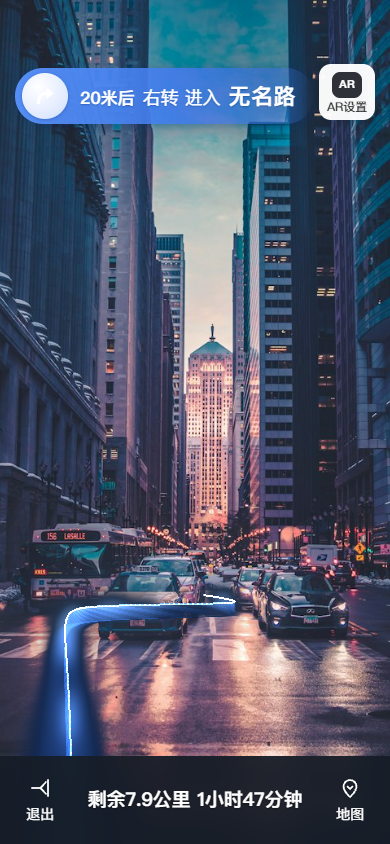
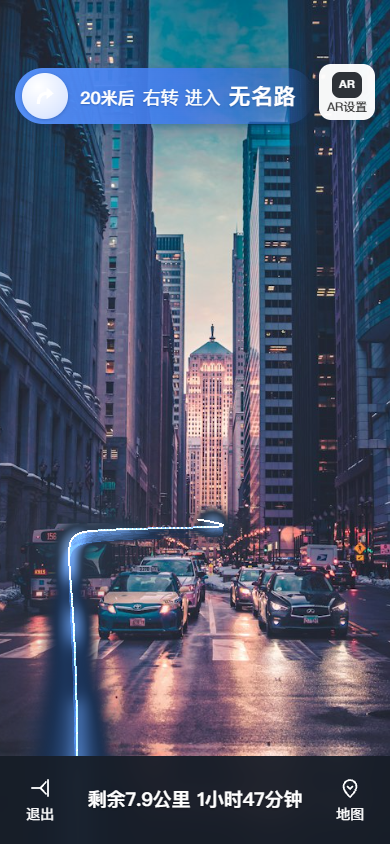
redo4: fix cover-crop branch in horizon math, screen-pixel horizon test at 3 viewports, 30m straight route, lighter near fade, irregular scanlines

Changed region(s): [[0.0923, 0.5853, 0.6462, 0.8934]]

diff --git a/tests/horizon.test.ts b/tests/horizon.test.ts
@@ -1,23 +1,25 @@
 /**
- * REDO3 自动验收：路线所有采样点必须投影在地平线之下，
- * 最远点距地平线 ≤ 3% 屏高（+8px 容差）。
- * 用纯 three.js 数学（无 WebGL）：复现 demo 的相机/校准/路线配置。
+ * REDO4 地平线验收（修正版）：
+ * 把远处地平线点 (0, 0, -10000) 投影到真实屏幕像素（经过 object-fit:cover 裁剪），
+ * 断言其在配置的照片地平线（图像坐标 horizonY 经同一 cover 数学换算）±1.5% 屏高内。
+ * 在 3 个视口下测试：390x844、430x932、1280x800。
  */
 import { describe, it, expect } from 'vitest'
 import * as THREE from 'three'
 import { normalizeRoute, buildRouteGeometry, buildCurtainGeometry } from '../src/route'
 
 // 与 demo/main.ts 保持一致的配置
-const PHOTO = { horizonY: 0.63, vanishX: 0.57, aspect: 828 / 1054 }
-const VIEWPORT = { w: 390, h: 844 }
+const PHOTO = { horizonY: 0.63, vanishX: 0.57, aspect: 828 / 1054 } // 图像坐标
 const FOV = 60
 const EYE = 1.6
 
-/** 复现 core.ts 的 photoToViewportY（object-fit:cover 上下裁剪） */
-function photoToViewportY(photoY: number): number {
-  const viewportAspect = VIEWPORT.w / VIEWPORT.h
-  if (viewportAspect <= PHOTO.aspect) {
-    const visibleFraction = viewportAspect / PHOTO.aspect
+/** 复现 core.ts 的 photoToViewportY（cover 裁剪，修正版） */
+function photoToViewportY(photoY: number, vw: number, vh: number): number {
+  const viewportAspect = vw / vh
+  // viewportAspect < photoAspect：图按高度铺满、左右裁剪 → y 不变
+  // viewportAspect > photoAspect：图按宽度铺满、上下裁剪 → y 映射
+  if (viewportAspect > PHOTO.aspect) {
+    const visibleFraction = PHOTO.aspect / viewportAspect
     const top = (1 - visibleFraction) / 2
     return (photoY - top) / visibleFraction
   }
@@ -25,65 +27,77 @@ function photoToViewportY(photoY: number): number {
 }
 
 /** 复现 core.ts 的 setHorizonCalibration 推导 */
-function calibratedPitchDeg(): number {
-  const visibleHorizonY = photoToViewportY(PHOTO.horizonY)
+function calibratedPitchDeg(vw: number, vh: number): number {
+  const visibleHorizonY = photoToViewportY(PHOTO.horizonY, vw, vh)
   const fovY = THREE.MathUtils.degToRad(FOV)
   const pitch = Math.atan((2 * visibleHorizonY - 1) * Math.tan(fovY / 2))
   return THREE.MathUtils.radToDeg(pitch)
 }
 
-describe('REDO3 路线贴地校验', () => {
-  it('校准后的 pitch 使 3D 地平线落在照片地平线上', () => {
-    const pitchDeg = calibratedPitchDeg()
-    // 3D 地平线：y=eye 的无穷远点。投影后 NDC y = (2*visibleHorizonY - 1)
-    const camera = new THREE.PerspectiveCamera(FOV, VIEWPORT.w / VIEWPORT.h, 0.05, 300)
-    camera.position.set(0, EYE, 1.5)
-    camera.quaternion.setFromEuler(new THREE.Euler(THREE.MathUtils.degToRad(pitchDeg), 0, 0, 'YXZ'))
-    camera.updateMatrixWorld()
-    const far = new THREE.Vector3(0, EYE, -10000).project(camera)
-    const ndcY = 1 - 2 * photoToViewportY(PHOTO.horizonY)
-    expect(far.y).toBeCloseTo(ndcY, 3)
-  })
+const VIEWPORTS: Array<[number, number]> = [
+  [390, 844],
+  [430, 932],
+  [1280, 800],
+]
 
-  it('所有路线采样点都在地平线之下，最远点距地平线 ≤ 3% 屏高', () => {
-    const pitchDeg = calibratedPitchDeg()
-    const camera = new THREE.PerspectiveCamera(FOV, VIEWPORT.w / VIEWPORT.h, 0.05, 300)
-    camera.position.set(0, EYE, 1.5)
-    camera.quaternion.setFromEuler(new THREE.Euler(THREE.MathUtils.degToRad(pitchDeg), 0, 0, 'YXZ'))
-    camera.updateMatrixWorld()
+describe('REDO4 地平线校准（真实屏幕像素）', () => {
+  for (const [vw, vh] of VIEWPORTS) {
+    it(`${vw}x${vh}: 3D 地平线投影落在照片地平线 ±1.5% 屏高内`, () => {
+      const pitchDeg = calibratedPitchDeg(vw, vh)
+      const camera = new THREE.PerspectiveCamera(FOV, vw / vh, 0.05, 300)
+      camera.position.set(0, EYE, 1.5)
+      camera.quaternion.setFromEuler(new THREE.Euler(THREE.MathUtils.degToRad(pitchDeg), 0, 0, 'YXZ'))
+      camera.updateMatrixWorld()
 
-    // demo 的路线（REDO3：28m 直行 + 8m 半径右转 + 20m）
-    const route = [
-      [0, 0],
-      [0, -28],
-      [7, -34],
-      [8.5, -44],
-      [9, -54],
-    ] as Array<[number, number]>
-    const geo = buildRouteGeometry(normalizeRoute(route))
+      // 远处地平线点（地面 y=0 的无穷远）→ 屏幕像素
+      const far = new THREE.Vector3(0, 0, -10000).project(camera)
+      const projectedY = ((1 - far.y) / 2) * vh
 
-    const horizonPx = photoToViewportY(PHOTO.horizonY) * VIEWPORT.h
-    let maxAbove = 0
-    let farGap = Infinity
-    for (const p of geo.points) {
-      const v = p.clone().project(camera)
-      const sy = (1 - (v.y + 1) / 2) * VIEWPORT.h
-      maxAbove = Math.max(maxAbove, horizonPx - sy) // >0 = 在地平线上方
-      farGap = Math.abs(sy - horizonPx)
-    }
-    // 全部在地平线之下（允许 0.5px 数值误差）
-    expect(maxAbove).toBeLessThanOrEqual(0.5)
-    // 最远点接近地平线（≤ 3% 屏高 + 8px 容差）
-    expect(farGap).toBeLessThanOrEqual(VIEWPORT.h * 0.03 + 8)
-  })
+      // 配置的照片地平线（图像坐标）→ 屏幕（同一 cover 数学）
+      const expectedY = photoToViewportY(PHOTO.horizonY, vw, vh) * vh
+
+      const gap = Math.abs(projectedY - expectedY)
+      expect(gap).toBeLessThanOrEqual(vh * 0.015)
+    })
+
+    it(`${vw}x${vh}: 路线所有采样点在地平线之下，最远点距地平线 ≤3% 屏高`, () => {
+      const pitchDeg = calibratedPitchDeg(vw, vh)
+      const camera = new THREE.PerspectiveCamera(FOV, vw / vh, 0.05, 300)
+      camera.position.set(0, EYE, 1.5)
+      camera.quaternion.setFromEuler(new THREE.Euler(THREE.MathUtils.degToRad(pitchDeg), 0, 0, 'YXZ'))
+      camera.updateMatrixWorld()
+
+      // demo 的路线（REDO4：30m 直行 + 8m 半径右转 + 20m）
+      const route = [
+        [0, 0],
+        [0, -30],
+        [7, -37],
+        [8.5, -47],
+        [9, -57],
+      ] as Array<[number, number]>
+      const geo = buildRouteGeometry(normalizeRoute(route))
+
+      const horizonPx = photoToViewportY(PHOTO.horizonY, vw, vh) * vh
+      let maxAbove = 0
+      let farGap = Infinity
+      for (const p of geo.points) {
+        const v = p.clone().project(camera)
+        const sy = ((1 - v.y) / 2) * vh
+        maxAbove = Math.max(maxAbove, horizonPx - sy)
+        farGap = Math.abs(sy - horizonPx)
+      }
+      expect(maxAbove).toBeLessThanOrEqual(0.5)
+      expect(farGap).toBeLessThanOrEqual(vh * 0.03 + 8)
+    })
+  }
 
   it('光幕几何为单一 ribbon：每采样点 2 顶点，全部 y 在 0..height', () => {
-    const route = [[0, 0], [0, -28], [7, -34], [8.5, -44], [9, -54]] as Array<[number, number]>
+    const route = [[0, 0], [0, -30], [7, -37], [8.5, -47], [9, -57]] as Array<[number, number]>
     const geo = buildRouteGeometry(normalizeRoute(route))
     const h = 0.5
     const curtain = buildCurtainGeometry(geo, h)
     const pos = curtain.getAttribute('position') as THREE.BufferAttribute
-    expect(pos.count).toBe(geo.points.length * 2) // 单张 ribbon：底+顶
+    expect(pos.count).toBe(geo.points.length * 2)
     const ys: number[] = []
     for (let i = 0; i < pos.count; i++) ys.push(pos.getY(i))
     expect(Math.min(...ys)).toBeCloseTo(0, 5)

diff --git a/src/shader.ts b/src/shader.ts
@@ -43,19 +43,24 @@ const frag = /* glsl */ `
   varying vec3 vWorldNormal;
   varying float vDist;
 
+  // 基于弧长 u 的确定性伪随机（不规则扫描线用）
+  float hash(float n) { return fract(sin(n * 127.1) * 43758.5453); }
+
   void main() {
     // 距离渐隐（~60m 完全淡出）
     float distFade = 1.0 - smoothstep(18.0, 60.0, vDist);
+    // 近处 2~3m 淡入：避免脚下出现深色斑块
+    float nearFade = smoothstep(0.4, 3.0, vDist);
 
     float a;
     if (uIsGround > 0.5) {
       // 地面光晕：横向羽化（中心亮、两缘透明）+ 纵向沿路渐弱
       float feather = smoothstep(0.0, 0.42, vUv.y) * smoothstep(1.0, 0.58, vUv.y);
-      a = feather * mix(0.5, 0.05, vUv.x) * distFade * uOpacity;
+      a = feather * mix(0.42, 0.05, vUv.x) * distFade * nearFade * uOpacity;
       // 流动光沿前进方向
       float flow = fract(vUv.x - uTime / uFlowSpeed);
       float band = smoothstep(0.0, 0.1, flow) * smoothstep(0.3, 0.12, flow);
-      a += band * feather * 0.25 * distFade * uOpacity;
+      a += band * feather * 0.22 * distFade * nearFade * uOpacity;
       vec3 col = uColor;
       gl_FragColor = vec4(col, clamp(a, 0.0, 1.0));
       if (gl_FragColor.a < 0.004) discard;
@@ -66,8 +71,13 @@ const frag = /* glsl */ `
     float vertGrad = mix(0.15, 0.45, pow(vUv.y, 1.1));
     vertGrad *= smoothstep(0.0, 0.12, vUv.y);
 
-    // 水平扫描线（8~14 条覆盖光帘高度，高对比清晰）
-    float scan = 0.62 + 0.38 * step(0.5, fract(vUv.y * uScanLines - uTime * 0.12));
+    // 不规则扫描线：每条线的位置/亮度由 hash 抖动，缓慢向上漂移
+    float lineIdx = floor(vUv.y * uScanLines);
+    float jitter = (hash(lineIdx) - 0.5) * 0.55;             // 间距抖动
+    float brightJitter = 0.55 + 0.45 * hash(lineIdx + 7.3);  // 亮度抖动
+    float sy = vUv.y * uScanLines + lineIdx * jitter + uTime * 0.06; // 向上慢漂
+    float scan = (0.62 + 0.38 * step(0.5, fract(sy))) * brightJitter;
+    scan = clamp(scan, 0.0, 1.0);
 
     // 菲涅尔边缘光（薄纱转角处微亮）
     vec3 viewDir = normalize(cameraPosition - vWorldPos);
@@ -79,11 +89,11 @@ const frag = /* glsl */ `
     float band = smoothstep(0.0, 0.1, flow) * smoothstep(0.3, 0.12, flow);
     band *= step(0.999, uReveal);
 
-    a = vertGrad * scan * distFade * uOpacity;
-    a += fres * 0.14 * distFade * uOpacity * smoothstep(0.0, 0.15, vUv.y);
-    a += band * 0.28 * distFade * uOpacity;
+    a = vertGrad * scan * distFade * nearFade * uOpacity;
+    a += fres * 0.14 * distFade * nearFade * uOpacity * smoothstep(0.0, 0.15, vUv.y);
+    a += band * 0.28 * distFade * nearFade * uOpacity;
     // 顶沿衔接亮线
-    a += smoothstep(0.93, 1.0, vUv.y) * 0.22 * distFade * uOpacity;
+    a += smoothstep(0.93, 1.0, vUv.y) * 0.22 * distFade * nearFade * uOpacity;
 
     vec3 col = mix(uColor, uTopColor, smoothstep(0.6, 1.0, vUv.y) * 0.6 + band * 0.3);
     gl_FragColor = vec4(col * (1.0 + band * 0.5 + fres * 0.3), clamp(a, 0.0, 1.0));

diff --git a/src/core.ts b/src/core.ts
@@ -235,7 +235,7 @@ export class NaviArrowCore {
       flowSpeed: options.flowSpeed ?? 2.5,
       scanLines: 12,
       bloomStrength: 0.5,
-      glowWidth: 1.2,
+      glowWidth: 0.8,
     }
     /** 地平线校准：背景图地平线（0..1 高度）与消失点 x（0..1 宽度） */
     this.horizon = { horizonY: 0.45, vanishX: 0.5, pitchDeg: -10, enabled: false }
@@ -482,19 +482,20 @@ export class NaviArrowCore {
 
   private photoAspect = 0
 
-  /** 把照片坐标的 y（0..1）换算到视口坐标 y（0..1），处理 object-fit:cover 上下裁剪 */
+  /** 把照片坐标的 y（0..1）换算到视口坐标 y（0..1），处理 object-fit:cover 裁剪 */
   private photoToViewportY(photoY: number): number {
     if (!this.photoAspect) return photoY // 未知则假定无裁剪
     const vw = this.container.clientWidth || 1
     const vh = this.container.clientHeight || 1
     const viewportAspect = vw / vh
-    if (viewportAspect <= this.photoAspect) {
-      // 视口更「竖」：图按宽度铺满，上下裁剪
-      const visibleFraction = viewportAspect / this.photoAspect // 可见高度占整图比例
+    // cover 缩放 = max(vw/iw, vh/ih)。
+    // viewportAspect < photoAspect：视口相对更「竖」→ 图按高度铺满、左右裁剪 → y 不变
+    // viewportAspect > photoAspect：视口相对更「横」→ 图按宽度铺满、上下裁剪 → y 需映射
+    if (viewportAspect > this.photoAspect) {
+      const visibleFraction = this.photoAspect / viewportAspect // 可见高度占整图比例
       const top = (1 - visibleFraction) / 2
       return (photoY - top) / visibleFraction
     }
-    // 视口更「横」：图按高度铺满，左右裁剪，y 不变
     return photoY
   }
 
@@ -504,10 +505,11 @@ export class NaviArrowCore {
     const vw = this.container.clientWidth || 1
     const vh = this.container.clientHeight || 1
     const viewportAspect = vw / vh
-    if (viewportAspect > this.photoAspect) {
-      const visibleFraction = this.photoAspect / viewportAspect
+    if (viewportAspect < this.photoAspect) {
+      // 图按高度铺满、左右裁剪
+      const visibleFraction = viewportAspect / this.photoAspect
       const left = (1 - visibleFraction) / 2
-      return (viewportX * (1 / viewportAspect) * 0 + left + viewportX * visibleFraction)
+      return left + viewportX * visibleFraction
     }
     return viewportX
   }

diff --git a/demo/main.ts b/demo/main.ts
@@ -77,12 +77,12 @@ btnPhoto.addEventListener('click', exitCameraMode)
 const navi = createNaviArrow(document.getElementById('navi') as HTMLElement, {
   route: [
     [0, 0],       // 脚前，贴地
-    [0, -28],     // 沿当前人行道直行 28m
-    [7, -34],     // 平滑右转（半径 ~8m）
-    [8.5, -44],   // 转入横街
-    [9, -54],     // 继续直行 ~20m
+    [0, -30],     // 沿当前人行道直行 30m（伸到远处楼底附近）
+    [7, -37],     // 平滑右转（半径 ~8m）
+    [8.5, -47],   // 转入横街
+    [9, -57],     // 继续直行 ~20m
   ],
-  curtainHeight: 0.6,
+  curtainHeight: 0.5,
   autoRender: false,
   banner: { distance: '20米后', action: '进入', road: '无名路' },
   footer: { enabled: true, distance: '剩余7.9公里', duration: '1小时47分钟' },
@@ -93,7 +93,7 @@ navi.onFooterButton((act) => {
 })
 
 // ---------- 地平线校准（REDO3 核心） ----------
-// 街景照片（828×1054）：车道线与楼底收束在 y≈63%、x≈57%
+// 街景照片（828×1054）：车道线与楼底收束在图像 y≈63%、x≈57%
 const PHOTO = { horizonY: 0.63, vanishX: 0.57, aspect: 828 / 1054 }
 navi.setPhotoAspect(PHOTO.aspect)
 const pitchDeg = navi.setHorizonCalibration({ horizonY: PHOTO.horizonY, vanishX: PHOTO.vanishX, eyeHeight: 1.6 })

diff --git a/src/config.ts b/src/config.ts
@@ -15,9 +15,9 @@ export interface NaviTheme {
 }
 
 export const DEFAULT_THEME: NaviTheme = {
-  primary: '#7FB8FF',
-  highlight: '#B8D9FF',
-  nearOpacity: 0.85,
+  primary: '#8EC5FF',
+  highlight: '#C5E0FF',
+  nearOpacity: 0.75,
   farOpacity: 0.02,
 }
 

diff --git a/REDO4.md b/REDO4.md
@@ -1,0 +1,22 @@
+# REDO4 - Correction after reviewing redo3-grid.png (priority over earlier REDO files)
+
+Progress: single sheet + thin top line + nothing climbing into the sky - good, keep.
+But it is now over-corrected: the whole route is squashed into the bottom ~15% of the screen and turns right almost immediately (looks like 3-5m ahead). It should run far up the street.
+
+## Evidence the calibration is still wrong
+- In demo-05 (ground grid debug) the grid stops and a bright green horizontal line sits at about 86% of screen height. The photo's real horizon / vanishing point (where the street and building bases converge, below the tall tower) is at about 62-65% of screen height. So the 3D horizon is ~20% of screen too low.
+- The horizon test passed anyway, which means it compares against the code's own (wrong) horizon. Fix the test so it projects a far point (0, 0, -10000) to SCREEN pixels in the real viewport (after object-fit: cover crop) and asserts it is within 1.5% of the configured photo horizon (horizonY of the IMAGE, converted to screen through the same cover math). Test at 3 viewports: 390x844, 430x932, 1280x800.
+- Check: camera pitch sign, horizonY in image space vs screen space, cover-crop offset, and that the camera aspect/FOV used for the math equals the real renderer size.
+
+## Route
+- Straight ahead along the lane for 30m (it must visibly reach up to near the base of the far buildings), then turn right with radius ~8m, then 20m more. Fade by ~60m.
+- Expected result: near part enters at the bottom edge, the line shrinks toward the vanishing point, the turn happens small and close to the horizon at the right side of the street.
+
+## Look
+- The near sheet currently reads as a thick dark-blue blob at the bottom. Make the near part lighter: lower alpha near the camera (fade in over the first 2-3m), ground glow width 0.8m with soft edges, color closer to #8EC5FF, less dark/saturated core.
+- Scanlines: slightly irregular spacing/brightness and slow upward drift, not perfectly uniform.
+
+## Acceptance
+- docs/compare/redo4-grid.png incl. ground-grid debug where the grid reaches the photo horizon and the horizon line sits on the vanishing point.
+- npm test passes with the fixed horizon test.
+- Commit, push, then notify-grokbot "<Chinese summary + screenshot paths>"
